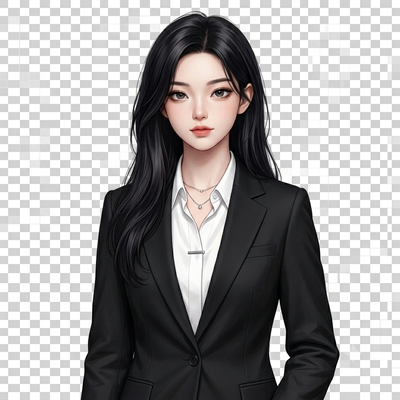
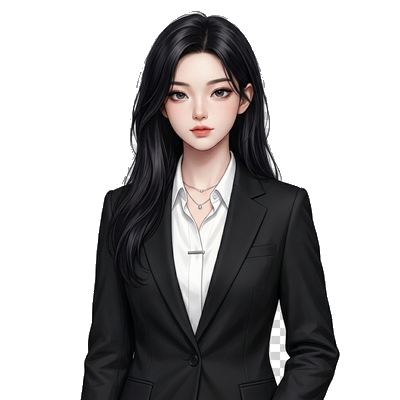
Hero 圆形头像去底透明 + 头像框背景改为透明以融入底图

Changed region(s): [[0.0, 0.0, 1.0, 1.0]]

diff --git a/index.html b/index.html
@@ -2074,7 +2074,7 @@
             transform: rotateX(0deg) rotateY(0deg);
             transition: transform 0.5s cubic-bezier(0.23, 1, 0.32, 1),
                         box-shadow 0.5s ease;
-            background: linear-gradient(135deg, #f5f5f5, #d8d8d8);
+            background: transparent;
             box-shadow:
                 0 30px 60px -20px rgba(20, 20, 30, 0.35),
                 0 0 0 6px var(--bg),
@@ -2089,7 +2089,7 @@
         }
 
         [data-theme="dark"] .ip-core .ip-face {
-            background: linear-gradient(135deg, #2a2a2a, #1a1a1a);
+            background: transparent;
             box-shadow:
                 0 30px 60px -20px rgba(0, 0, 0, 0.7),
                 0 0 0 6px var(--bg),
